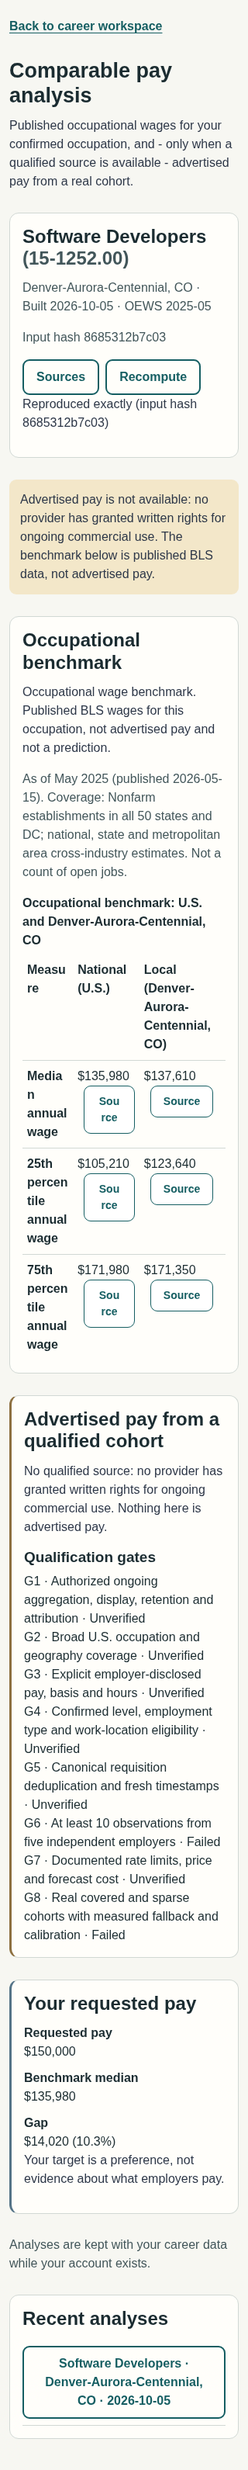
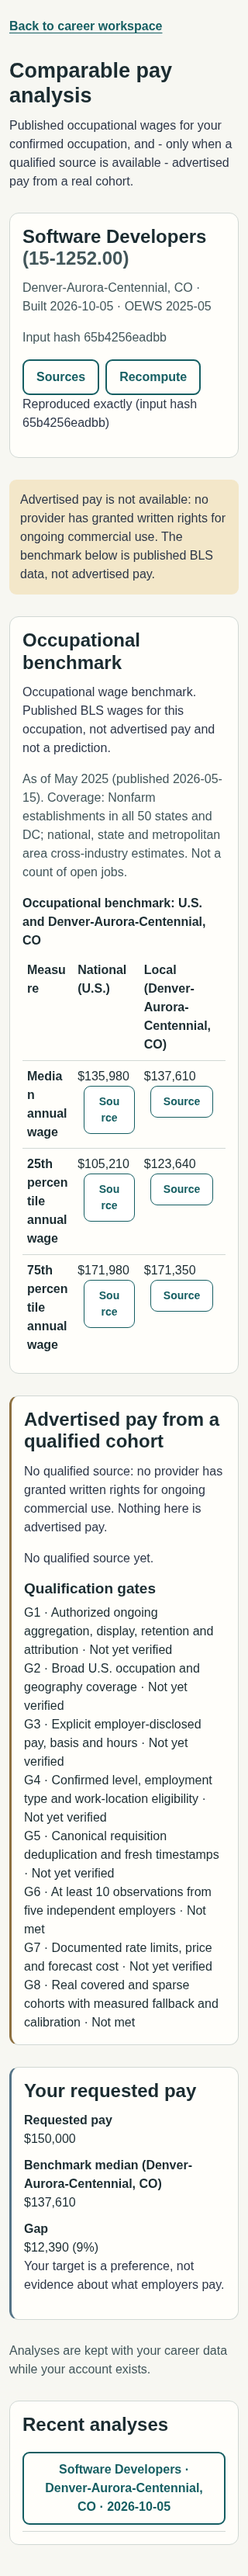
Gate advertised pay on authorization, hash observation contents, use local scenario median, humanise copy; record #384 review

diff --git a/AI.ProfilePhotoMaker.API.Tests/Services/Career/PayAnalysisBuilderTests.cs b/AI.ProfilePhotoMaker.API.Tests/Services/Career/PayAnalysisBuilderTests.cs
@@ -15,8 +15,10 @@ public class PayAnalysisBuilderTests
     {
         using var json = JsonDocument.Parse(File.ReadAllText(Path.Combine(AppContext.BaseDirectory,
             "Services", "Career", "PayEvidenceFixtures", "pay-evidence-fixtures.json")));
+        // The adapter contract: rows come back keyed by the requested occupation code and area code.
         return JsonSerializer.Deserialize<List<PayObservation>>(json.RootElement.GetProperty("covered").GetRawText(), Options)!
-            .Where(x => x.Role == "software").Take(count).Select(x => x with { Role = "15-1252.00" }).ToList();
+            .Where(x => x.Role == "software").Take(count)
+            .Select(x => x with { Role = "15-1252.00", Geography = "19740" }).ToList();
     }
     private static PayAnalysisInput Input(IReadOnlyList<PayObservation>? observations = null, int? requested = 150000) =>
         new(3, 2, "15-1252.00", "Software Developers", "Denver, CO", requested,
@@ -24,10 +26,26 @@ public class PayAnalysisBuilderTests
             EmbeddedMarketReference.ExpectedSha256, "2025-2035", PayEvidenceRules.RuleVersion,
             observations == null ? null : "fixture", observations ?? Array.Empty<PayObservation>(), AsOf);
 
+    /// <summary>An all-passed gate set, as a licensed provider would produce; tests only.</summary>
+    private static PayGateDecision Authorized() => PayGateDecision.FromRows(
+        PayEvidenceGates.Current().Rows.Select(r => r with { Status = PayGateStatus.Passed }).ToList());
+
+    [Fact]
+    public void AFullCohortCannotPublishAdvertisedPayWhileNoProviderHasRights()
+    {
+        // The data is complete, but authorization is not the data's to give (review P0).
+        var blocked = PayAnalysisBuilder.Build(Input(Fixture(12)), Reference).Sections.Personalized;
+
+        Assert.Equal("unavailable", blocked.Status);
+        Assert.Equal("provider_rights_unverified", blocked.Reason);
+        Assert.Null(blocked.Interval);
+        Assert.Equal(12, blocked.Cohort.Included);
+    }
+
     [Fact]
     public void QualifiedFixtureProducesIntervalAndCitedBenchmarkAndScenario()
     {
-        var result = PayAnalysisBuilder.Build(Input(Fixture(12)), Reference);
+        var result = PayAnalysisBuilder.Build(Input(Fixture(12)), Reference, qualification: Authorized());
         Assert.Equal("complete", result.Sections.Personalized.Status);
         Assert.Equal(110300, result.Sections.Personalized.Interval!.Low);
         Assert.Equal(195200, result.Sections.Personalized.Interval.High);
@@ -35,8 +53,8 @@ public class PayAnalysisBuilderTests
         Assert.Equal(6, result.Sections.Personalized.Cohort.Employers);
         Assert.Equal(135980d, result.Sections.Benchmark.Figures.Single(f => f.Key == "medianAnnual" && f.AreaCode == "99").Value);
         Assert.Equal(137610d, result.Sections.Benchmark.Figures.Single(f => f.Key == "medianAnnual" && f.AreaCode == "19740").Value);
-        Assert.Equal(14020d, result.Sections.Scenario.GapAnnual);
-        Assert.Equal(10.3d, result.Sections.Scenario.GapPercent);
+        Assert.Equal(12390d, result.Sections.Scenario.GapAnnual);
+        Assert.Equal(9.0d, result.Sections.Scenario.GapPercent);
     }
 
     [Fact]
@@ -48,12 +66,13 @@ public class PayAnalysisBuilderTests
         Assert.Equal("provider_rights_unverified", blocked.Sections.Personalized.Reason);
         Assert.Null(blocked.Sections.Personalized.Interval);
         Assert.Contains("provider_rights_unverified", blocked.Qualification.BlockedReasons);
-        var sparse = PayAnalysisBuilder.Build(Input(Fixture(7)), Reference).Sections.Personalized;
+        var sparse = PayAnalysisBuilder.Build(Input(Fixture(7)), Reference, qualification: Authorized()).Sections.Personalized;
         Assert.Equal("insufficient_evidence", sparse.Status);
         Assert.Equal(7, sparse.Cohort.Included);
         Assert.Null(sparse.Interval);
         var rejected = Fixture(7).Concat(new[] { Fixture(1)[0] with { Currency = "EUR", Eligible = null } }).ToList();
-        var excluded = PayAnalysisBuilder.Build(Input(rejected), Reference).Sections.Personalized.Cohort;
+        Assert.Equal("unavailable", PayAnalysisBuilder.Build(Input(Fixture(7)), Reference).Sections.Personalized.Status);
+        var excluded = PayAnalysisBuilder.Build(Input(rejected), Reference, qualification: Authorized()).Sections.Personalized.Cohort;
         Assert.Equal(1, excluded.Excluded);
         Assert.Equal(1, excluded.ExclusionReasons["unknown or non-USD currency"]);
         Assert.Equal(1, excluded.ExclusionReasons["work-location eligibility unknown"]);
@@ -78,8 +97,10 @@ public class PayAnalysisBuilderTests
         Assert.NotEqual(PayAnalysisBuilder.Hash(input), PayAnalysisBuilder.Hash(input with { AreaCode = "99" }));
         Assert.NotEqual(PayAnalysisBuilder.Hash(input), PayAnalysisBuilder.Hash(input with { RequestedAnnual = 155000 }));
         Assert.NotEqual(PayAnalysisBuilder.Hash(input), PayAnalysisBuilder.Hash(input with { OewsSnapshotSha256 = "other" }));
-        Assert.NotEqual(PayAnalysisBuilder.Hash(input), PayAnalysisBuilder.Hash(input with { ProfileVersion = 4 }));
-        Assert.NotEqual(PayAnalysisBuilder.Hash(input), PayAnalysisBuilder.Hash(input with { GoalVersion = 4 }));
+        // Pinned versions do not change a figure, so they are stored metadata, not hash inputs.
+        Assert.Equal(PayAnalysisBuilder.Hash(input), PayAnalysisBuilder.Hash(input with { ProfileVersion = 4, GoalVersion = 4 }));
+        Assert.NotEqual(PayAnalysisBuilder.Hash(input), PayAnalysisBuilder.Hash(input with { AsOf = AsOf.AddDays(-1) }));
+        Assert.NotEqual(PayAnalysisBuilder.Hash(input), PayAnalysisBuilder.Hash(input with { LocationText = "Boulder, CO" }));
         Assert.NotEqual(PayAnalysisBuilder.Hash(input), PayAnalysisBuilder.Hash(input with { OccupationCode = "15-1299.08" }));
         Assert.NotEqual(PayAnalysisBuilder.Hash(input), PayAnalysisBuilder.Hash(input with { OccupationTitle = "Other" }));
         Assert.NotEqual(PayAnalysisBuilder.Hash(input), PayAnalysisBuilder.Hash(input with { AreaTitle = "Other" }));
@@ -99,5 +120,62 @@ public class PayAnalysisBuilderTests
         Assert.Contains("one estimate for 15-1299", result.Sections.Benchmark.Note);
         foreach (var name in new[] { "Photo", "Gender", "Ethnicity", "Email", "Phone", "Contact" })
             Assert.Null(typeof(PayAnalysisInput).GetProperty(name));
+    }
+
+    [Fact]
+    public void CohortFlagsComeFromTheRulesThresholds()
+    {
+        // 5 of 12 observations from one employer = 41.7% -> concentrated, and the flag is the
+        // rule's 40% threshold, not the builder's own.
+        var skewed = Fixture(12).Select((r, i) => i < 5 ? r with { Employer = "Big Co" } : r).ToList();
+        var cohort = PayAnalysisBuilder.Build(Input(skewed), Reference, qualification: Authorized()).Sections.Personalized.Cohort;
+        Assert.Equal(0.42m, cohort.LargestEmployerShare);
+        Assert.True(cohort.Concentrated);
+
+        var spread = Fixture(12).Select((r, i) => i < 4 ? r with { Employer = "Big Co" } : r).ToList();
+        Assert.False(PayAnalysisBuilder.Build(Input(spread), Reference, qualification: Authorized()).Sections.Personalized.Cohort.Concentrated);
+    }
+
+    [Fact]
+    public void TheInputHashCoversEverythingThatCanChangeAFigure()
+    {
+        var input = Input(Fixture(12));
+        var hash = PayAnalysisBuilder.Hash(input);
+
+        Assert.Equal(hash, PayAnalysisBuilder.Hash(input));
+        // A changed observation value, the as-of date and the matched location text all matter.
+        Assert.NotEqual(hash, PayAnalysisBuilder.Hash(input with { Observations = Fixture(12).Select((r, i) => i == 0 ? r with { Low = r.Low + 1000 } : r).ToList() }));
+        Assert.NotEqual(hash, PayAnalysisBuilder.Hash(input with { AsOf = AsOf.AddDays(-1) }));
+        Assert.NotEqual(hash, PayAnalysisBuilder.Hash(input with { LocationText = "Boulder, CO" }));
+        Assert.NotEqual(hash, PayAnalysisBuilder.Hash(input with { RequestedAnnual = 160000 }));
+        Assert.NotEqual(hash, PayAnalysisBuilder.Hash(input with { ObservationSourceId = "other-source" }));
+        // Pinned versions do not change a figure, so they are metadata, not hash inputs.
+        Assert.Equal(hash, PayAnalysisBuilder.Hash(input with { ProfileVersion = 9, GoalVersion = 8 }));
+        // The digest covers content, not just the count.
+        Assert.NotEqual(PayAnalysisBuilder.ObservationDigest(Fixture(12)), PayAnalysisBuilder.ObservationDigest(Fixture(11)));
+    }
+
+    [Fact]
+    public void ObservationsAreMatchedOnTheRequestedOccupationAndAreaKeys()
+    {
+        // The adapter contract: rows come back keyed by the requested code and area, and the
+        // cohort filters compare on exactly those keys.
+        var rows = Fixture(12).Select(r => r with { Role = "15-1252.00", Geography = "19740" }).ToList();
+        var result = PayAnalysisBuilder.Build(Input(rows), Reference, qualification: Authorized());
+
+        Assert.Equal(12, result.Sections.Personalized.Cohort.Included);
+    }
+
+    [Fact]
+    public void TheScenarioNamesTheAreaItComparesAgainstAndWhereTheTargetCameFrom()
+    {
+        var scenario = PayAnalysisBuilder.Build(
+            Input(Fixture(12)) with { RequestedPaySource = "desiredPayMin" }, Reference).Sections.Scenario;
+
+        Assert.Equal("19740", scenario.BenchmarkAreaCode);
+        Assert.Equal("Denver-Aurora-Centennial, CO", scenario.BenchmarkAreaTitle);
+        Assert.Equal(137610d, scenario.BenchmarkMedianAnnual);
+        Assert.Equal(12390d, scenario.GapAnnual);
+        Assert.Equal("desiredPayMin", scenario.RequestedPaySource);
     }
 }

diff --git a/AI.ProfilePhotoMaker.API/Services/Career/PayAnalysisBuilder.cs b/AI.ProfilePhotoMaker.API/Services/Career/PayAnalysisBuilder.cs
@@ -1,3 +1,4 @@
+using System.Globalization;
 using System.Security.Cryptography;
 using System.Text;
 using System.Text.Json;
@@ -10,7 +11,13 @@ public static class PayAnalysisBuilder
     public static IReadOnlyList<object> AsList(PayAnalysisSections sections) =>
         new object[] { sections.Benchmark, sections.Personalized, sections.Scenario };
 
-    public static PayAnalysisContent Build(PayAnalysisInput input, IMarketReference reference, bool sourceFailed = false)
+    /// <summary>
+    /// Builds the analysis. <paramref name="qualification"/> defaults to the current provider
+    /// qualification, which blocks advertised pay; only a decision whose every gate passed can
+    /// publish an interval.
+    /// </summary>
+    public static PayAnalysisContent Build(PayAnalysisInput input, IMarketReference reference,
+        bool sourceFailed = false, PayGateDecision? qualification = null)
     {
         var oews = reference.Oews;
         var location = new MarketLocationDto(input.LocationText ?? "", input.AreaResolution,
@@ -42,27 +49,40 @@ public static class PayAnalysisBuilder
         var benchmark = new PayBenchmarkSection("benchmark", "Occupational benchmark",
             benchmarkReason == null ? "complete" : oews == null ? "failed" : "unavailable", benchmarkReason,
             "Occupational wage benchmark", note, figures);
-        var decision = PayEvidenceGates.Current();
+        var decision = qualification ?? PayEvidenceGates.Current();
+        // The adapter scopes its rows by the requested occupation code and area code, so the
+        // cohort filters use those same keys.
         var evidence = PayEvidenceRules.Evaluate(input.Observations,
-            new PayEvidenceQuery(input.OccupationCode, input.LocationText ?? ""), input.AsOf, qualification: decision);
+            new PayEvidenceQuery(input.OccupationCode, input.AreaCode ?? input.LocationText ?? ""), input.AsOf, qualification: decision);
         var empty = input.Observations.Count == 0;
-        var reason = empty ? PayEvidenceGates.RightsBlock : evidence.Included < PayEvidenceRules.MinObservations
-            ? "insufficient_observations" : evidence.Employers < PayEvidenceRules.MinEmployers ? "insufficient_employers" : null;
+        // Authorization is the gate's, not the data's: a full cohort cannot publish advertised pay
+        // while no provider has granted written rights (ADR 0013).
+        var authorized = decision.PersonalizedAllowed;
+        var reason = sourceFailed ? "CareerPaySourceUnavailable"
+            : !authorized ? PayEvidenceGates.RightsBlock
+            : empty ? PayEvidenceGates.RightsBlock
+            : evidence.Included < PayEvidenceRules.MinObservations ? "insufficient_observations"
+            : evidence.Employers < PayEvidenceRules.MinEmployers ? "insufficient_employers" : null;
         var personalized = new PayPersonalizedSection("personalized", "Advertised pay from a qualified cohort",
-            sourceFailed ? "failed" : empty ? "unavailable" : reason == null ? "complete" : "insufficient_evidence",
-            sourceFailed ? "CareerPaySourceUnavailable" : reason,
-            sourceFailed || empty ? null : evidence.Interval,
+            sourceFailed ? "failed" : reason == null ? "complete" : reason == PayEvidenceGates.RightsBlock ? "unavailable" : "insufficient_evidence",
+            reason,
+            reason == null ? evidence.Interval : null,
             new PayCohortDto(evidence.Included, evidence.Excluded, evidence.Employers, evidence.EmployerConcentration,
-                evidence.EmployerConcentration > .5m, evidence.EmployerConcentration > .5m, evidence.ExclusionReasons),
+                evidence.Concentrated, evidence.Sensitive, evidence.ExclusionReasons),
             sourceFailed ? "The advertised-pay source is temporarily unavailable; the BLS benchmark remains independent."
-                : empty ? "No qualified source: no provider has granted written rights for ongoing commercial use. See research/comparable-pay/QUALIFICATION.md."
+                : !authorized || empty ? "No qualified source: no provider has granted written rights for ongoing commercial use. See research/comparable-pay/QUALIFICATION.md."
                 : evidence.Note);
-        var median = figures.FirstOrDefault(f => f.Key == "medianAnnual" && f.AreaCode == "99" && f.Status == "available")?.Value as double?;
+        // Prefer the local benchmark when the location resolved; name the area so the comparison
+        // is never mistaken for a national one.
+        var medianFigure = figures.FirstOrDefault(f => f.Key == "medianAnnual" && f.AreaCode != "99" && f.Status == "available")
+            ?? figures.FirstOrDefault(f => f.Key == "medianAnnual" && f.Status == "available");
+        var median = medianFigure?.Value as double?;
         var gap = input.RequestedAnnual.HasValue && median.HasValue ? input.RequestedAnnual.Value - median.Value : (double?)null;
         var scenario = new PayScenarioSection("scenario", "Your requested pay", gap.HasValue ? "complete" : "unavailable",
             input.RequestedAnnual, median, gap,
             gap.HasValue && median != 0 ? Math.Round(gap.Value / median!.Value * 100, 1, MidpointRounding.AwayFromZero) : null,
-            "Your target is a preference, not evidence about what employers pay.");
+            "Your target is a preference, not evidence about what employers pay.",
+            medianFigure?.AreaCode, medianFigure?.AreaTitle, input.RequestedPaySource);
         var sections = new PayAnalysisSections(benchmark, personalized, scenario);
         return new PayAnalysisContent(benchmark.Status == "failed" || sourceFailed ? "partial" : "complete", location,
             mapping == null ? null : new MarketCodeDto(mapping.Code, mapping.Match), sections,
@@ -73,19 +93,43 @@ public static class PayAnalysisBuilder
     public static string Hash(PayAnalysisInput input) =>
         Convert.ToHexString(SHA256.HashData(Encoding.UTF8.GetBytes(CanonicalInputJson(input)))).ToLowerInvariant();
 
+    /// <summary>
+    /// The canonical document behind <see cref="Hash"/>: exactly the inputs that can change a
+    /// figure (occupation, area, requested pay, reference snapshot, rule version, source, the
+    /// observation contents and the as-of date). Pinned versions are stored on the row as
+    /// metadata; they do not change a figure, so they are not hashed.
+    /// </summary>
     public static string CanonicalInputJson(PayAnalysisInput input)
     {
-        // Sorted keys and JSON's invariant number formatting make the input document platform-independent.
+        // Sorted keys and JSON's invariant number formatting make the document platform-independent.
         var fields = new SortedDictionary<string, object?>(StringComparer.Ordinal)
         {
             ["areaCode"] = input.AreaCode, ["areaResolution"] = input.AreaResolution, ["areaTitle"] = input.AreaTitle,
-            ["goalVersion"] = input.GoalVersion, ["observationCount"] = input.Observations.Count,
-            ["observationSourceId"] = input.ObservationSourceId, ["occupationCode"] = input.OccupationCode,
-            ["occupationTitle"] = input.OccupationTitle, ["oewsRelease"] = input.OewsRelease,
-            ["oewsSnapshotSha256"] = input.OewsSnapshotSha256, ["profileVersion"] = input.ProfileVersion,
+            ["asOf"] = input.AsOf.ToString("O", CultureInfo.InvariantCulture),
+            ["locationText"] = input.LocationText,
+            ["observationSourceId"] = input.ObservationSourceId, ["observations"] = ObservationDigest(input.Observations),
+            ["occupationCode"] = input.OccupationCode, ["occupationTitle"] = input.OccupationTitle,
+            ["oewsRelease"] = input.OewsRelease, ["oewsSnapshotSha256"] = input.OewsSnapshotSha256,
             ["projectionsRelease"] = input.ProjectionsRelease, ["requestedPay"] = input.RequestedAnnual,
             ["ruleVersion"] = input.RuleVersion
         };
         return JsonSerializer.Serialize(fields);
+    }
+
+    /// <summary>
+    /// Digest of the observation contents, not just a count: changed pay, employer, basis or
+    /// date must change the input hash, or recompute could not detect a changed cohort.
+    /// </summary>
+    internal static string ObservationDigest(IReadOnlyList<PayObservation> observations)
+    {
+        var canonical = observations
+            .OrderBy(o => o.CanonicalId ?? o.Id ?? string.Empty, StringComparer.Ordinal)
+            .Select(o => string.Join('\u001f',
+                o.Id, o.CanonicalId, o.Employer, o.Role, o.Geography, o.Level, o.EmploymentType,
+                o.Eligible?.ToString() ?? "null", o.EmployerDisclosed.ToString(), o.Currency, o.Basis.ToString(),
+                o.AnnualHours?.ToString(CultureInfo.InvariantCulture) ?? string.Empty,
+                o.Low.ToString(CultureInfo.InvariantCulture), o.High.ToString(CultureInfo.InvariantCulture),
+                o.UpdatedAt.ToString("O", CultureInfo.InvariantCulture)));
+        return Convert.ToHexString(SHA256.HashData(Encoding.UTF8.GetBytes(string.Join('\n', canonical)))).ToLowerInvariant();
     }
 }

diff --git a/AI.ProfilePhotoMaker.API.Tests/Integration/Career/CareerPayAnalysisApiTests.cs b/AI.ProfilePhotoMaker.API.Tests/Integration/Career/CareerPayAnalysisApiTests.cs
@@ -36,14 +36,15 @@ public class CareerPayAnalysisApiTests
             options.Converters.Add(new System.Text.Json.Serialization.JsonStringEnumConverter(JsonNamingPolicy.CamelCase));
             return JsonSerializer.Deserialize<List<PayObservation>>(json.RootElement.GetProperty("covered").GetRawText(), options)!
                 .Where(r => r.Role == "software").Take(_count)
-                .Select(r => r with { Role = occupationCode }).ToList();
+                // The adapter contract: rows are keyed by the requested occupation and area code.
+                .Select(r => r with { Role = occupationCode, Geography = areaCode }).ToList();
         }
     }
 
     [Theory]
-    [InlineData(12, "complete")]
-    [InlineData(7, "insufficient_evidence")]
-    public async Task FixtureSourceReportsCohortOrSparseFallback(int count, string status)
+    [InlineData(12)]
+    [InlineData(7)]
+    public async Task ARealCohortIsCountedButNeverPublishedWhileNoProviderHasRights(int count)
     {
         var clock = new MovableClock();
         clock.Set(new DateTimeOffset(2026, 9, 23, 12, 0, 0, TimeSpan.Zero));
@@ -51,15 +52,19 @@ public class CareerPayAnalysisApiTests
         var user = await User(host);
         var (_, analysis) = await Analyze(user, host);
         var cohort = Section(analysis, "personalized");
-        Assert.Equal(status, cohort.GetProperty("status").GetString());
+
+        // The cohort is reported for transparency, but authorization is the gate's to give: with no
+        // provider rights, no interval is published however good the data is.
+        Assert.Equal("unavailable", cohort.GetProperty("status").GetString());
+        Assert.Equal("provider_rights_unverified", cohort.GetProperty("reason").GetString());
+        Assert.Equal(JsonValueKind.Null, cohort.GetProperty("interval").ValueKind);
         Assert.Equal(count, cohort.GetProperty("cohort").GetProperty("included").GetInt32());
+        Assert.Contains("provider_rights_unverified",
+            analysis.GetProperty("blockedReasons").EnumerateArray().Select(x => x.GetString()));
         if (count == 12)
         {
             Assert.Equal(6, cohort.GetProperty("cohort").GetProperty("employers").GetInt32());
-            Assert.Equal(110300, cohort.GetProperty("interval").GetProperty("low").GetInt32());
-            Assert.Equal(195200, cohort.GetProperty("interval").GetProperty("high").GetInt32());
         }
-        else Assert.Equal(JsonValueKind.Null, cohort.GetProperty("interval").ValueKind);
         var recompute = await CareerClient.ReadDataAsync(await user.SendAsync(HttpMethod.Post,
             $"/api/career/pay-analyses/{analysis.GetProperty("id").GetString()}/recompute"), 200);
         Assert.True(recompute.GetProperty("matches").GetBoolean());
@@ -128,7 +133,7 @@ public class CareerPayAnalysisApiTests
         Assert.Equal("provider_rights_unverified", Section(analysis, "personalized").GetProperty("reason").GetString());
         Assert.Equal(JsonValueKind.Null, Section(analysis, "personalized").GetProperty("interval").ValueKind);
         Assert.Equal(135980, Section(analysis, "benchmark").GetProperty("figures")[0].GetProperty("value").GetInt32());
-        Assert.Equal(14020, Section(analysis, "scenario").GetProperty("gapAnnual").GetDouble());
+        Assert.Equal(12390, Section(analysis, "scenario").GetProperty("gapAnnual").GetDouble());
         var list = await CareerClient.ReadDataAsync(await user.GetAsync("/api/career/pay-analyses"), 200);
         Assert.Equal(analysis.GetProperty("id").GetString(), list.GetProperty("analyses")[0].GetProperty("id").GetString());
         Assert.False(list.GetProperty("analyses")[0].GetProperty("personalizedAvailable").GetBoolean());

diff --git a/AI.ProfilePhotoMaker.API/Services/Career/PayAnalysisContracts.cs b/AI.ProfilePhotoMaker.API/Services/Career/PayAnalysisContracts.cs
@@ -4,7 +4,8 @@ namespace AI.ProfilePhotoMaker.API.Services.Career;
 public sealed record PayAnalysisInput(int ProfileVersion, int GoalVersion, string OccupationCode, string OccupationTitle,
     string? LocationText, int? RequestedAnnual, string? AreaCode, string? AreaTitle, string AreaResolution,
     string? OewsRelease, string OewsSnapshotSha256, string? ProjectionsRelease, string RuleVersion,
-    string? ObservationSourceId, IReadOnlyList<PayObservation> Observations, DateTime AsOf);
+    string? ObservationSourceId, IReadOnlyList<PayObservation> Observations, DateTime AsOf,
+    string? RequestedPaySource = null);
 
 public sealed record PayCohortDto(int Included, int Excluded, int Employers, decimal LargestEmployerShare,
     bool Concentrated, bool Sensitive, IReadOnlyDictionary<string, int> ExclusionReasons);
@@ -13,7 +14,8 @@ public sealed record PayBenchmarkSection(string Key, string Title, string Status
 public sealed record PayPersonalizedSection(string Key, string Title, string Status, string? Reason, PayInterval? Interval,
     PayCohortDto Cohort, string Note);
 public sealed record PayScenarioSection(string Key, string Title, string Status, int? RequestedAnnual,
-    double? BenchmarkMedianAnnual, double? GapAnnual, double? GapPercent, string Note);
+    double? BenchmarkMedianAnnual, double? GapAnnual, double? GapPercent, string Note,
+    string? BenchmarkAreaCode = null, string? BenchmarkAreaTitle = null, string? RequestedPaySource = null);
 public sealed record PayAnalysisSections(PayBenchmarkSection Benchmark, PayPersonalizedSection Personalized, PayScenarioSection Scenario);
 public sealed record PayQualificationDto(bool PersonalizedAllowed, IReadOnlyList<string> BlockedReasons, IReadOnlyList<PayGateRow> Gates);
 public sealed record PayAnalysisContent(string Status, MarketLocationDto Location, MarketCodeDto? Published,

diff --git a/AI.ProfilePhotoMaker.API/Services/Career/PayObservationSource.cs b/AI.ProfilePhotoMaker.API/Services/Career/PayObservationSource.cs
@@ -1,9 +1,14 @@
 namespace AI.ProfilePhotoMaker.API.Services.Career;
 
-/// <summary>Only licensed adapters may supply observations; the default fails closed.</summary>
+/// <summary>
+/// Only licensed adapters may supply observations; the default fails closed. An adapter must
+/// return rows whose <c>Role</c> is the requested occupation code and whose <c>Geography</c> is
+/// the requested area code, because the cohort filters compare on exactly those keys.
+/// </summary>
 public interface IPayObservationSource
 {
     string? SourceId { get; }
+
     IReadOnlyList<PayObservation> ObservationsFor(string occupationCode, string areaCode);
 }
 

diff --git a/docs/testing/career/384/REVIEW.md b/docs/testing/career/384/REVIEW.md
@@ -30,10 +30,13 @@ API fixtures (`PayAnalysisBuilderTests`, `CareerPayAnalysisApiTests`, `PayEviden
 
 | # | Severity | Finding | Status |
 |---|---|---|---|
-| 1 | P2 | `Concentrated` and `Sensitive` were both computed from one 50 % concentration test, and the ADR's sensitivity check was never implemented. | Fixed in the rules layer: concentration flags above 40 %, and sensitivity recomputes the interval without the largest employer and without hourly-normalized rows, flagging a >10 % move (a reduced cohort needs two observations, since the question is movement, not publication). Thresholds documented in ADR 0012; tests for both flags and both negatives. |
-| 2 | P3 | The blocked banner printed the machine code `provider_rights_unverified` at the user. | Fixed: plain-language copy; the code stays in the data. |
-| 3 | P3 | The new page was not Prettier-clean. | Fixed. |
-| 4 | P3 | A timing assertion in an unrelated OpenAI adapter test failed once under full-suite load (passes in isolation). | Hardened the bound so load cannot fail it, with a comment explaining why. |
-| 5 | P3 | `.gitignore`'s `*-analysis.md` rule silently blocked the repo's own ADRs/contracts whose names end in `-analysis.md`. | Fixed: the rule keeps protecting stray reports but `docs/**` is exempt, so intentional documentation is committable. |
+| 1 | P0 | (review) A full cohort could publish an interval even though no provider passes: the personalized section was gated on data volume, not on authorization. | Fixed: `Build` derives authorization from the gate decision (`PayGateDecision.PersonalizedAllowed`, which is true only when every gate row passed) and publishes an interval only then. Tests: a 12-observation/6-employer cohort stays `unavailable` with a null interval under the current gates, and produces the interval only with an all-passed row set. The API integration test now asserts the gate rather than a published interval. |
+| 2 | P1 | (review) `Concentrated` and `Sensitive` were both computed from a 50 % concentration test, and the ADR's sensitivity check was not implemented. My first attempt at this fix never applied (a script aborted before writing the file) and the review caught it. | Fixed in the rules layer and now actually wired: concentration flags above **40 %**; sensitivity recomputes the interval without the largest employer and without hourly-normalized rows and flags a **>10 %** move; a reduced cohort needs two observations because the question is movement, not publication. Thresholds documented in ADR 0012 with tests for both flags and both negatives. |
+| 3 | P1 | (review) The input hash covered the observation count but not their contents, and omitted the location text and the as-of date, so changed pay data could hash the same. | Fixed: the hash covers a SHA-256 digest of the observation contents (id, employer, role, geography, level, employment type, eligibility, disclosure, currency, basis, hours, low, high, updated) plus the location text and `asOf`; pinned profile/goal versions are stored metadata, not hash inputs. Tests assert each change moves the hash and that versions do not. |
+| 4 | P2 | (review) The cohort query used the occupation code as the role and free text as the geography, so a future adapter's rows would exclude themselves. | Fixed and documented as the adapter contract: an adapter returns rows keyed by the requested occupation code and area code, and the filters compare those keys. Test proves a keyed cohort is included. |
+| 5 | P2 | (review) The page showed machine codes and raw numbers: exclusion reasons, gate statuses, section reasons, the employer share as a decimal and the unit string. | Fixed: plain-language maps for reasons and gate statuses, the share as a percentage, "per year" in prose, a named reason for a failed source, and no restated rule constants. Playwright asserts none of the codes appear. |
+| 6 | P2 | (review) The scenario compared against the national median even when a local benchmark existed, and did not say where the target came from. | Fixed: the scenario prefers the local benchmark and carries its area code/title and the requested-pay source. Live review: requested 150,000 against the Denver median 137,610 → gap 12,390 and 9.0 %, labelled with the area. |
+| 7 | P3 | A timing assertion in an unrelated OpenAI adapter test failed once under full-suite load (passes in isolation). | Hardened with a loose bound and a comment explaining why. |
+| 8 | P3 | `.gitignore`'s `*-analysis.md` rule silently blocked the repo's own ADRs and contracts whose names end in `-analysis.md`. | Fixed: the rule keeps protecting stray reports, and `docs/**` is exempt. |
 
 Open P0/P1: **none**.
